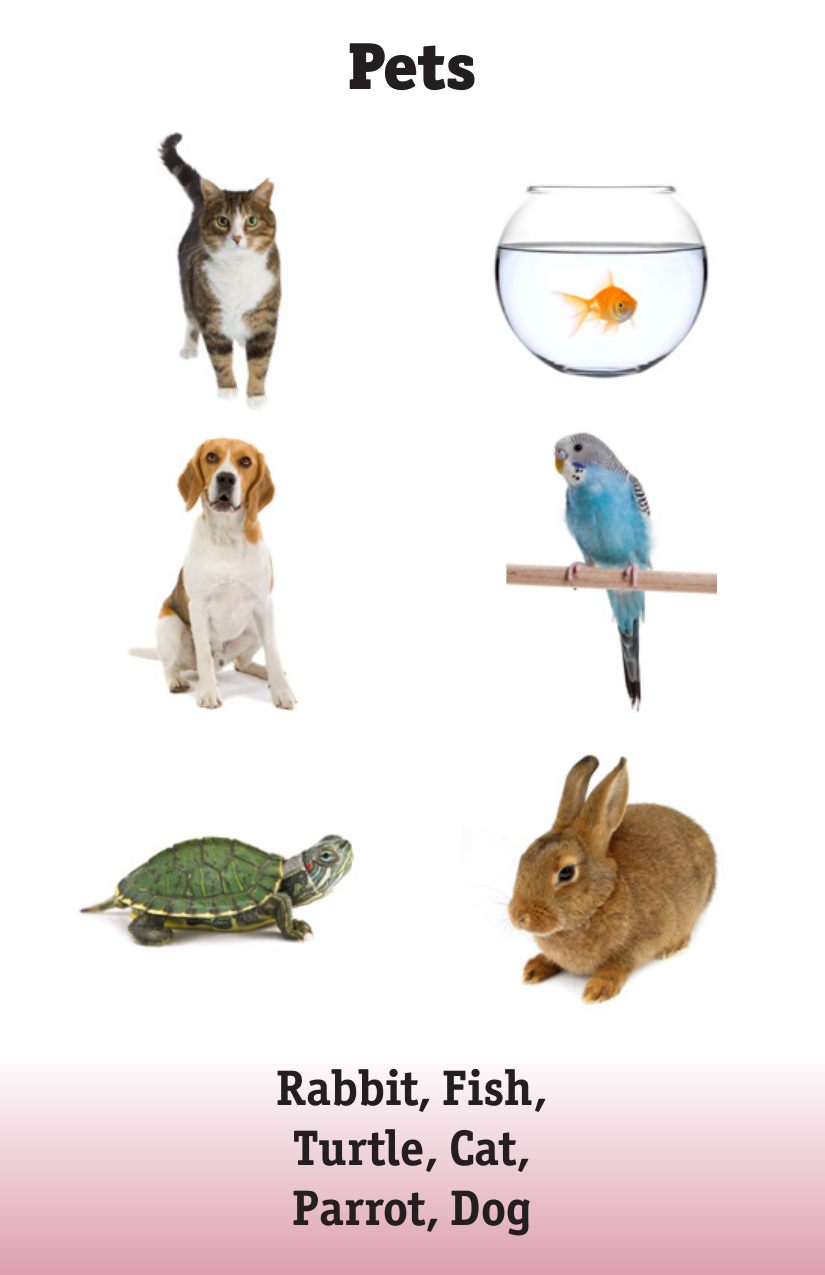
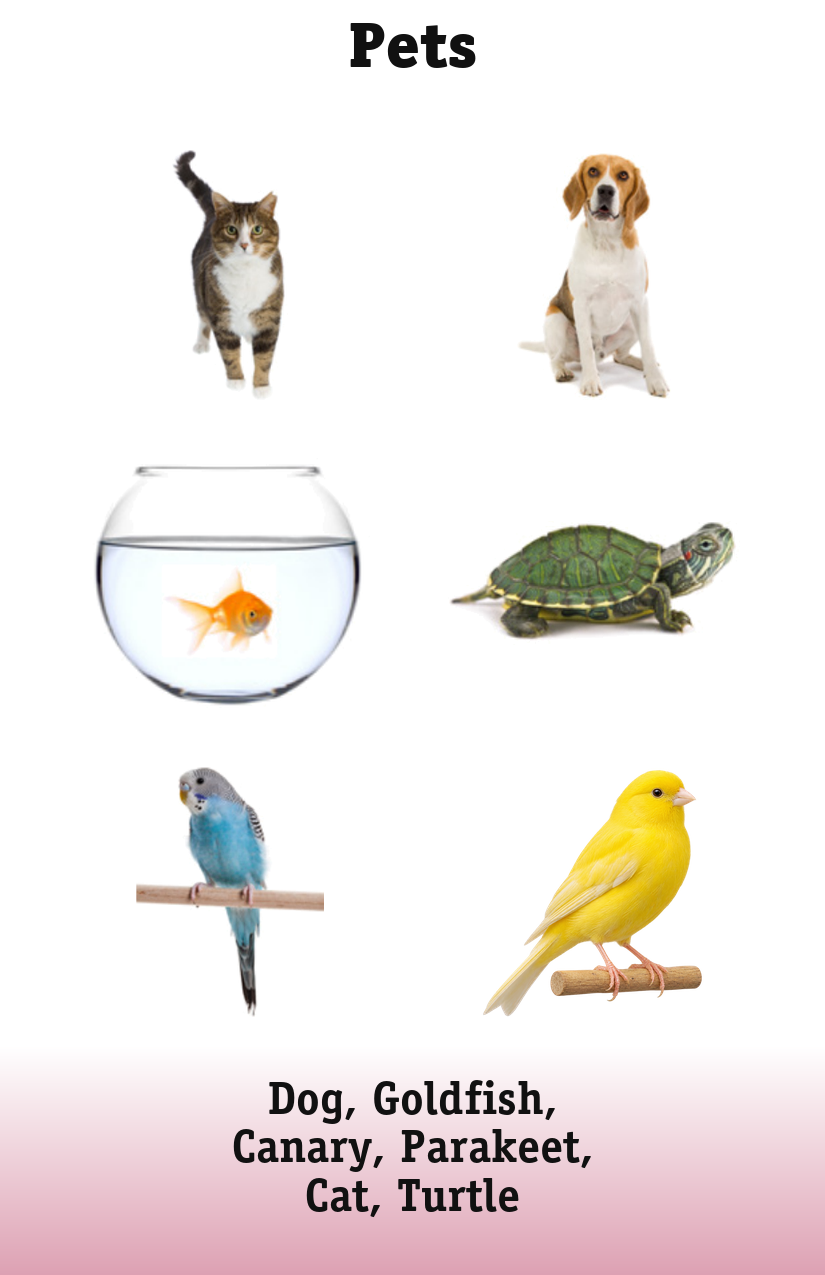
Rebuild Pets around clear animal groups

diff --git a/picture-this/game-data.js b/picture-this/game-data.js
@@ -186,11 +186,11 @@ window.PICTURE_THIS_GAME_DATA = {
   ],
   "pets": [
     "Cat",
-    "Fish",
     "Dog",
-    "Parrot",
+    "Goldfish",
     "Turtle",
-    "Rabbit"
+    "Parakeet",
+    "Canary"
   ],
   "at-the-beach": [
     "Surfboard",
@@ -1406,6 +1406,42 @@ window.PICTURE_THIS_GAME_DATA = {
 window.PICTURE_THIS_GAME_META = {
   "schema_version": 1,
   "cards": {
+    "pets": {
+      "title": "Pets",
+      "category_answers": ["Pets", "Pet Animals", "Household Pets", "Common Pets"],
+      "tags": ["pets", "animals", "home", "care"],
+      "items": [
+        {"id": "cat", "label": "Cat", "answers": ["Cat", "House Cat", "Pet Cat"]},
+        {"id": "dog", "label": "Dog", "answers": ["Dog", "Pet Dog", "House Dog"]},
+        {"id": "goldfish", "label": "Goldfish", "answers": ["Goldfish", "Gold Fish", "Pet Goldfish"]},
+        {"id": "turtle", "label": "Turtle", "answers": ["Turtle", "Pet Turtle", "Water Turtle"]},
+        {"id": "parakeet", "label": "Parakeet", "answers": ["Parakeet", "Budgie", "Budgerigar", "Pet Parakeet"]},
+        {"id": "canary", "label": "Canary", "answers": ["Canary", "Yellow Canary", "Pet Canary"]}
+      ],
+      "links": [
+        {
+          "word": "mammals",
+          "answers": ["mammals", "mammal"],
+          "items": ["cat", "dog"],
+          "explanation": "The cat and dog are the only two mammals shown on this pet card.",
+          "audit": "exclusive-among-six-v1"
+        },
+        {
+          "word": "aquatic",
+          "answers": ["aquatic", "water", "swimming"],
+          "items": ["goldfish", "turtle"],
+          "explanation": "The goldfish and turtle are the only two pets shown that characteristically live or spend most of their time in water.",
+          "audit": "exclusive-among-six-v1"
+        },
+        {
+          "word": "birds",
+          "answers": ["birds", "bird", "feathers", "feathered"],
+          "items": ["parakeet", "canary"],
+          "explanation": "The parakeet and canary are the only two birds shown on this pet card.",
+          "audit": "exclusive-among-six-v1"
+        }
+      ]
+    },
     "at-the-beach": {
       "title": "At the Beach",
       "category_answers": ["At the Beach", "Beach Items", "Things at the Beach", "Beach Gear and Finds"],

diff --git a/picture-this/question-data.js b/picture-this/question-data.js
@@ -1015,45 +1015,45 @@ window.PICTURE_THIS_QUESTION_DATA = {
   },
   "pets": {
     "questions": [
-      "How big are the pets on the card? Which pet is the biggest? Which is the smallest?",
-      "Choose two of the pets. What do these pets eat?",
-      "Which pets on the card are fun to play with? Why?",
-      "Choose one of the pets. How do you take care of it?",
-      "Choose two of the pets. What do they feel like when you touch them?",
-      "What pet would you like to have? Why?"
+      "Which pets are mammals, aquatic animals, or birds?",
+      "How are a cat and dog alike? How are they different?",
+      "What does a goldfish or turtle need in its home?",
+      "How can you tell a parakeet from a canary?",
+      "Which of these pets would be easiest or hardest to care for? Why?",
+      "Imagine you choose one of these pets. How would you care for it each day?"
     ],
     "positions": [
-      13.14,
-      27.49,
-      37.61,
-      47.73,
-      57.84,
-      67.88
+      12.43,
+      22.75,
+      33.1,
+      43.45,
+      53.84,
+      68.47
     ],
     "endpoints": [
       {
-        "x": 43.27,
-        "y": 21.65
+        "x": 55.88,
+        "y": 16.82
       },
       {
-        "x": 47.27,
-        "y": 31.73
+        "x": 70.06,
+        "y": 27.29
       },
       {
-        "x": 48.97,
-        "y": 42.16
+        "x": 56.36,
+        "y": 37.33
       },
       {
-        "x": 46.42,
-        "y": 51.92
+        "x": 36.48,
+        "y": 48.04
       },
       {
-        "x": 92.97,
-        "y": 62.04
+        "x": 27.03,
+        "y": 62.71
       },
       {
-        "x": 25.58,
-        "y": 72.43
+        "x": 37.45,
+        "y": 77.37
       }
     ]
   },

diff --git a/picture-this/link-data.js b/picture-this/link-data.js
@@ -54,7 +54,7 @@ window.PICTURE_THIS_LINK_DATA = {
   ],
   "market": [pictureThisLink("produce", [0,3], "Fruit and vegetables are the only two fresh-produce groups shown.")],
   "outdoor-gear": [],
-  "pets": [pictureThisLink("aquatic", [1,4], "The fish and turtle are the only two pets shown that characteristically live in water.", ["water"])],
+  "pets": [],
   "at-the-beach": [],
   "in-the-kitchen": [pictureThisLink("mixing", [1,2], "The wooden spoon and mixing bowl are the only two items shown specifically named or designed for mixing.", ["mix"])],
   "getting-dressed": [],
@@ -317,10 +317,7 @@ const auditedLinkAdditions = {
     pictureThisLink("poultry", [1,2], "Eggs and chicken are the only two foods shown that are poultry products.")
   ],
   "outdoor-gear": [],
-  "pets": [
-    pictureThisLink("companions", [0,2], "Cat and dog are the only two free-roaming household companion mammals shown."),
-    pictureThisLink("caged", [3,5], "Parrot and rabbit are the only two pets shown commonly kept in cages or hutches.")
-  ],
+  "pets": [],
   "at-the-beach": [],
   "in-the-kitchen": [
     pictureThisLink("heatproof", [0,5], "Frying pan and oven mitt are the only two items shown directly joined by safely handling hot cookware."),
